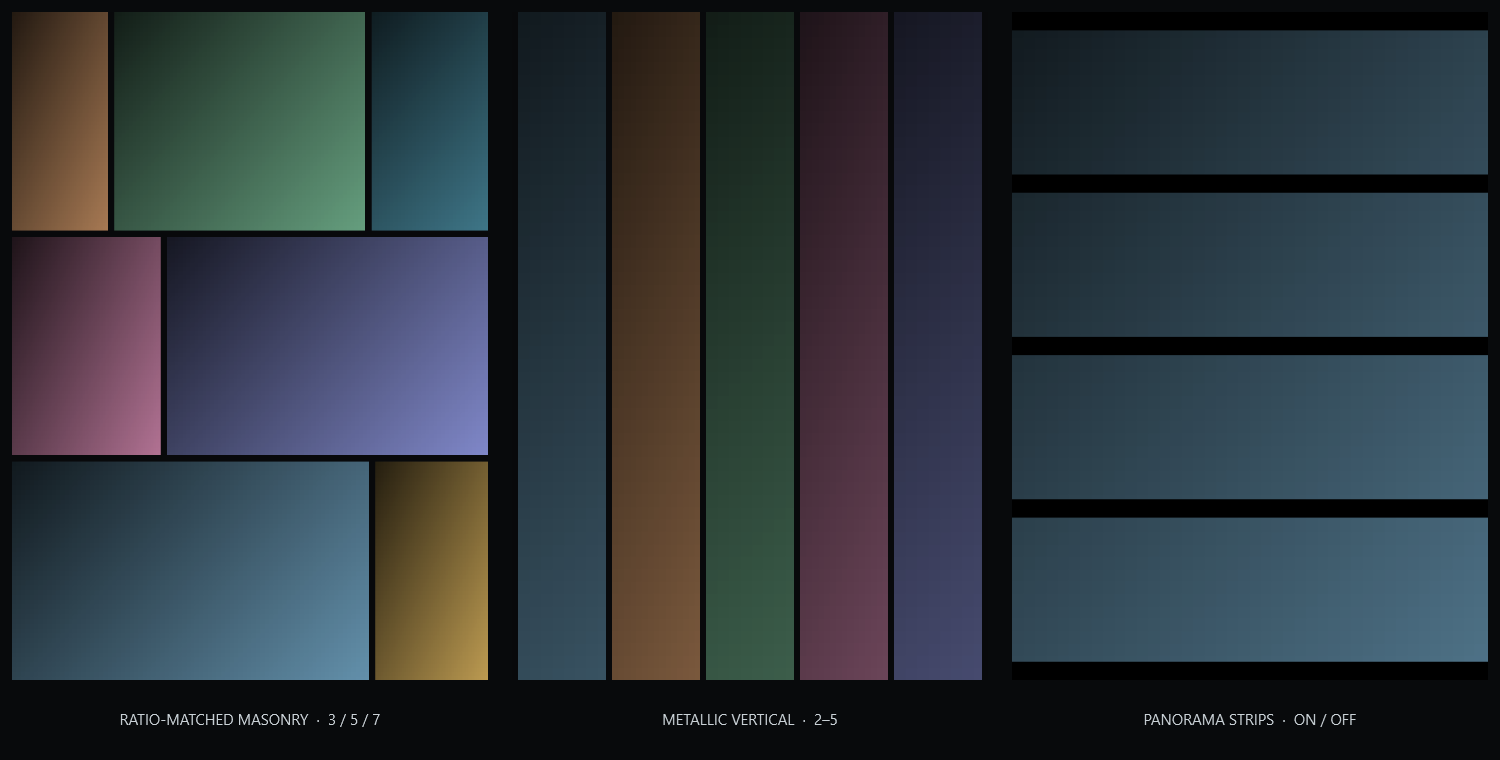
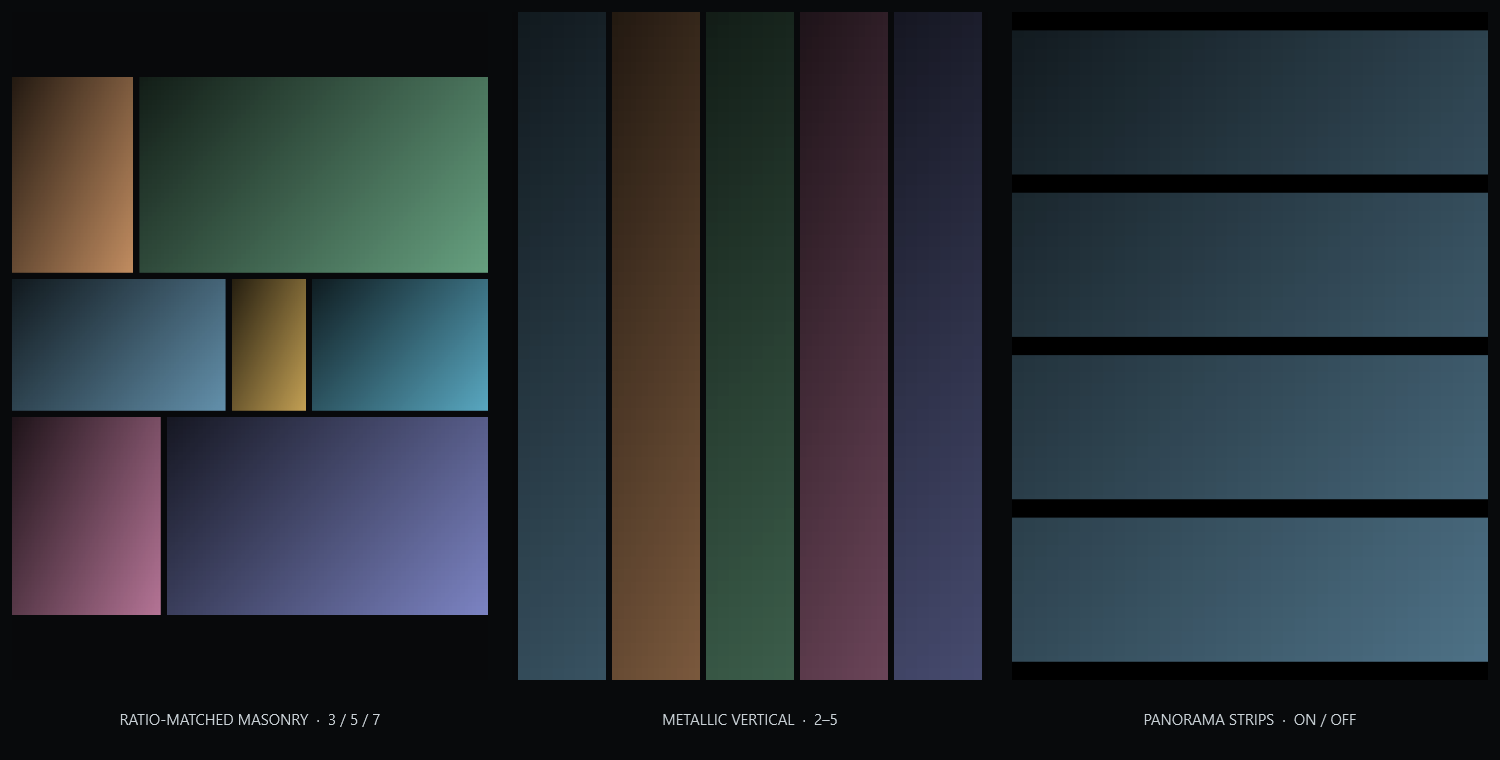
Release DearScene v1.3 beta 1

Changed region(s): [[0.0, 0.0, 0.3373, 0.9079]]

diff --git a/docs/index.html b/docs/index.html
@@ -313,7 +313,7 @@
     .reliability-demo { padding:clamp(24px,4vw,44px); }.pipeline{display:grid;grid-template-columns:1fr 36px 1fr 36px 1fr;align-items:center}.pipe-box{min-height:120px;padding:17px;border:1px solid rgba(255,255,255,.12);border-radius:16px;background:rgba(255,255,255,.025)}.pipe-box b{display:block;margin-bottom:12px;color:rgba(255,255,255,.74);font-size:10px;letter-spacing:.1em}.pipe-box span{display:block;padding:5px 0;color:rgba(255,255,255,.38);font-size:9px}.pipe-box .ready{color:rgba(255,255,255,.78)}.pipe-box .skip{text-decoration:line-through;opacity:.45}.pipe-arrow{height:1px;background:rgba(255,255,255,.22);position:relative}.pipe-arrow::after{content:"";position:absolute;right:0;top:-3px;width:6px;height:6px;border-top:1px solid rgba(255,255,255,.4);border-right:1px solid rgba(255,255,255,.4);transform:rotate(45deg)}.reliability-foot{display:grid;grid-template-columns:repeat(3,1fr);gap:8px;margin-top:12px}.reliability-foot span{min-height:45px;padding:12px;border-radius:12px;background:rgba(255,255,255,.045);color:rgba(255,255,255,.46);font-size:9px;line-height:1.45}
 
     .ui-demo { display:grid; grid-template-columns:1.35fr .65fr; gap:10px; padding:10px; }.ui-main,.ui-side{display:grid;gap:10px}.ui-shot{position:relative;overflow:hidden;border-radius:15px;background:#111}.ui-shot img{height:auto;aspect-ratio:auto;object-fit:contain}.ui-shot small{position:absolute;left:10px;bottom:9px;padding:6px 8px;border-radius:8px;background:rgba(7,9,10,.56);color:rgba(255,255,255,.68);font-size:8px;backdrop-filter:blur(10px)}
-    .presentation-layout-demo { display:grid; grid-template-columns:1.15fr .76fr 1fr; gap:8px; padding:10px; background:#080a0c; }
+    .presentation-layout-demo { display:grid; grid-template-columns:1.08fr 1.08fr .76fr 1fr; gap:8px; padding:10px; background:#080a0c; }
     .layout-showcase { min-width:0; }
     .layout-screen { position:relative; aspect-ratio:16/11; overflow:hidden; padding:6px; border-radius:14px; background:#020304; box-shadow:inset 0 0 0 1px rgba(255,255,255,.09); }
     .layout-showcase small { display:block; min-height:31px; padding:10px 2px 1px; color:rgba(255,255,255,.42); font-size:7px; line-height:1.45; letter-spacing:.08em; text-align:center; }
@@ -322,6 +322,10 @@
     .masonry-tile img { min-width:0; min-height:0; transform:scale(1.02); animation:layout-photo-breathe 14s cubic-bezier(.42,0,.24,1) infinite alternate; }
     .masonry-tile:nth-child(1){grid-column:1/3;grid-row:1/3}.masonry-tile:nth-child(2){grid-column:3/5;grid-row:1}.masonry-tile:nth-child(3){grid-column:3;grid-row:2/4}.masonry-tile:nth-child(4){grid-column:4;grid-row:2/4}.masonry-tile:nth-child(5){grid-column:1;grid-row:3}.masonry-tile:nth-child(6){grid-column:2;grid-row:3}
     .masonry-tile:nth-child(2) img,.masonry-tile:nth-child(5) img{animation-delay:-5s}.masonry-tile:nth-child(3) img,.masonry-tile:nth-child(6) img{animation-delay:-9s}
+    .masonry-natural { position:relative; display:block; }
+    .masonry-natural .masonry-tile { position:absolute; }
+    .masonry-natural .masonry-tile:nth-child(1){left:6px;top:6px;width:45%;height:32%}.masonry-natural .masonry-tile:nth-child(2){right:6px;top:6px;width:45%;height:32%}.masonry-natural .masonry-tile:nth-child(3){left:6px;bottom:6px;width:29%;height:61%}.masonry-natural .masonry-tile:nth-child(4){left:35.5%;bottom:6px;width:29%;height:61%}.masonry-natural .masonry-tile:nth-child(5){right:6px;bottom:6px;width:29%;height:61%}
+    .masonry-natural .masonry-tile img { width:100%;height:100%;object-fit:cover; }
     .vertical-live { display:grid; grid-template-columns:repeat(4,1fr); gap:5px; }
     .vertical-live img { min-width:0; min-height:0; border-radius:5px; object-fit:cover; }
     .vertical-live img:nth-child(1){object-position:47% 50%}.vertical-live img:nth-child(2){object-position:57% 50%}.vertical-live img:nth-child(3){object-position:48% 38%}.vertical-live img:nth-child(4){object-position:62% 50%}
@@ -397,7 +401,7 @@
 <body>
   <header class="topbar glass">
     <div class="brand"><img src="assets/dearscene-icon.png" alt=""><span>DearScene</span></div>
-    <a class="top-cta" href="https://github.com/linohwang001/DearScene-Beta/releases/download/v1.23-beta.1/DearScene-v1.23.exe">v1.23を入手</a>
+    <a class="top-cta" href="https://github.com/linohwang001/DearScene-Beta/releases/download/v1.3-beta.1/DearScene-v1.3.exe">v1.3を入手</a>
   </header>
 
   <section class="opening" aria-labelledby="opening-title">
@@ -602,13 +606,14 @@
             <div class="feature-copy">
               <span class="feature-number">02 · MULTI LAYOUT</span>
               <h3>一枚ずつも、<br>響き合うギャラリーも。</h3>
-              <p>メイソンリーは、縦写真を縦の枠へ、横写真を横の枠へ。3:4、黄金比、16:9を組み合わせ、3・5・7枚の作品がひとつの画面で美しく響き合います。</p>
+              <p>メイソンリーは、縦作品を縦の枠へ、横作品を横の枠へ。3:4、黄金比、16:9でリズムをつくる「貴金属比」と、写真・動画の形をそのまま活かす「元の比率を維持」から選べます。</p>
               <p>短冊は、縦へ2〜5分割。作品ごとに並べることも、パノラマ写真や横長動画を一作品のまま、均等な隙間を挟んだ三つの窓として連続表示することもできます。</p>
-              <p>次のページは画面の外で先に準備。ゆっくり動き出し、なめらかに進み、余韻を残して止まります。<sup class="note-ref"><a href="#release-note-3" aria-label="注記3">3</a></sup></p>
-              <div class="feature-proof"><span>3・5・7枚のメイソンリー</span><span>縦短冊 2〜5分割</span><span>パノラマを縦3面へ</span></div>
+              <p>複数の動画はGPU支援に適した形式を先に準備。次のページが動き始めるまで現在の景色を保ち、ゆっくり動き出し、余韻を残して止まります。<sup class="note-ref"><a href="#release-note-3" aria-label="注記3">3</a></sup></p>
+              <div class="feature-proof"><span>枠と作品の向きを一致</span><span>元の比率を維持</span><span>GPU支援の複数動画</span></div>
             </div>
-            <div class="feature-visual presentation-layout-demo" aria-label="実写サンプルを使ったメイソンリー、縦短冊、パノラマの縦3分割連続表示の例">
-              <div class="layout-showcase"><div class="layout-screen masonry-live"><div class="masonry-tile"><img src="assets/family-travel.jpg" alt="家族旅行の横写真"></div><div class="masonry-tile"><img src="assets/mountain.jpg" alt="湖と山の横写真"></div><div class="masonry-tile"><img src="assets/baby.jpg" alt="家族の縦写真"></div><div class="masonry-tile"><img src="assets/japan-night.jpg" alt="夜景の縦写真"></div><div class="masonry-tile"><img src="assets/beach.jpg" alt="海辺の写真"></div><div class="masonry-tile"><img src="assets/study-works.jpg" alt="作品アーカイブ"></div></div><small>MASONRY · 3 / 5 / 7</small></div>
+            <div class="feature-visual presentation-layout-demo" aria-label="貴金属比と元の比率を維持するメイソンリー、縦短冊、パノラマの縦3分割連続表示の例">
+              <div class="layout-showcase"><div class="layout-screen masonry-live"><div class="masonry-tile"><img src="assets/family-travel.jpg" alt="家族旅行の横写真"></div><div class="masonry-tile"><img src="assets/mountain.jpg" alt="湖と山の横写真"></div><div class="masonry-tile"><img src="assets/baby.jpg" alt="家族の縦写真"></div><div class="masonry-tile"><img src="assets/japan-night.jpg" alt="夜景の縦写真"></div><div class="masonry-tile"><img src="assets/beach.jpg" alt="海辺の写真"></div><div class="masonry-tile"><img src="assets/study-works.jpg" alt="作品アーカイブ"></div></div><small>MASONRY · METALLIC RATIOS</small></div>
+              <div class="layout-showcase"><div class="layout-screen masonry-natural"><div class="masonry-tile"><img src="assets/family-travel.jpg" alt="元の横長比率を保つ旅行写真"></div><div class="masonry-tile"><img src="assets/mountain.jpg" alt="元の横長比率を保つ風景写真"></div><div class="masonry-tile"><img src="assets/baby.jpg" alt="元の縦長比率を保つ家族写真"></div><div class="masonry-tile"><img src="assets/japan-night.jpg" alt="元の縦長比率を保つ夜景写真"></div><div class="masonry-tile"><img src="assets/studio.jpg" alt="元の縦長比率を保つスタジオ写真"></div></div><small>MASONRY · ORIGINAL ASPECT</small></div>
               <div class="layout-showcase"><div class="layout-screen vertical-live"><img src="assets/family-travel.jpg" alt="旅行写真の縦短冊"><img src="assets/japan-night.jpg" alt="夜景写真の縦短冊"><img src="assets/baby.jpg" alt="家族写真の縦短冊"><img src="assets/studio.jpg" alt="スタジオ写真の縦短冊"></div><small>VERTICAL STRIPS · 2–5</small></div>
               <div class="layout-showcase"><div class="layout-screen panorama-live"><div class="panorama-slice"></div><div class="panorama-slice"></div><div class="panorama-slice"></div><span class="panorama-badge">ONE PHOTO</span></div><small>PANORAMA · 3 VERTICAL STRIPS</small></div>
             </div>
@@ -756,13 +761,13 @@
 
     <section class="beta-release" id="beta" aria-labelledby="beta-title">
       <div class="beta-release-inner" data-reveal>
-        <span class="beta-release-kicker">DEARSCENE v1.23 BETA</span>
+        <span class="beta-release-kicker">DEARSCENE v1.3 BETA</span>
         <h2 id="beta-title"><span class="sentence-block">あなたのアーカイブを、</span><span class="sentence-block">もう一度、生きた景色へ。</span></h2>
-        <p><span class="sentence-block">Windows 10／11 x64向けのプレリリースです。</span><span class="sentence-block">試した感想も、うまくいかなかった瞬間も、次のDearSceneをつくる大切な手がかりになります。</span></p>
+        <p><span class="sentence-block">Windows 10／11 x64向けのプレリリースです。</span><span class="sentence-block">v1.3では、作品の向きと比率を活かす二つのメイソンリーと、GPU支援の複数動画再生を追加しました。</span><span class="sentence-block">試した感想も、うまくいかなかった瞬間も、次のDearSceneをつくる大切な手がかりになります。</span></p>
         <div class="beta-actions">
-          <a href="https://github.com/linohwang001/DearScene-Beta/releases/download/v1.23-beta.1/DearScene-v1.23.exe">DearScene v1.23をダウンロード</a>
+          <a href="https://github.com/linohwang001/DearScene-Beta/releases/download/v1.3-beta.1/DearScene-v1.3.exe">DearScene v1.3をダウンロード</a>
           <a href="https://forms.gle/5TT5WFhG5xzA45oW9" target="_blank" rel="noopener noreferrer">意見・不具合を送る</a>
-          <a href="https://github.com/linohwang001/DearScene-Beta/releases/tag/v1.23-beta.1">リリース情報を見る</a>
+          <a href="https://github.com/linohwang001/DearScene-Beta/releases/tag/v1.3-beta.1">リリース情報を見る</a>
         </div>
         <small>ベータ版のため、重要な写真・動画は元の場所に保持したままご利用ください。DearSceneは元ファイルを移動・編集しません。</small>
       </div>
@@ -775,10 +780,10 @@
     <ol>
       <li id="release-note-1">対応形式は、Windowsの標準デコーダー、同梱FFmpeg、RAW内蔵プレビューを組み合わせたものです。ファイルの生成方法や内部形式によっては再生できない場合があります。</li>
       <li id="release-note-2">アプリ内に固定の登録件数上限はありません。実際に扱える件数、検索時間、先読み速度は、PCの性能、メモリ容量、保存先の速度、同時起動数によって変わります。</li>
-      <li id="release-note-3">メイソンリーと短冊表示は、1枚表示より高い読み出し・デコード負荷がかかります。動画のみの分割表示では、必要な全枠が再生を始めてから切り替えます。準備中は現在のページを保ち、黒画面や静止画への置き換えを避けます。</li>
+      <li id="release-note-3">メイソンリーと短冊表示は、1枚表示より高い読み出し・デコード負荷がかかります。v1.3は複数表示用動画をH.264・NV12へ準備し、対応環境ではGPUによる変換・再生支援を利用します。GPU、ドライバー、素材形式によってCPU負荷は変わります。</li>
       <li id="release-note-4">スマート構図は、画像内の顔らしさ、ピント、特徴色から端末内で注目位置を推定します。作品の内容や画質によって結果は異なり、人物を識別・特定する機能ではありません。</li>
       <li id="release-note-5">停止監視と迂回再生は、すべてのPC、グラフィックドライバー、外部ストレージ構成で無停止動作を保証するものではありません。再生中に追加されたファイルは、書き込みの安定を確認してから候補へ加わります。</li>
-      <li>DearScene v1.23はWindows 10／11 x64向けベータ版です。本体はネットワーク通信を行わず、元の写真・動画を変更しません。掲載している画面、仕様、対応形式は今後の更新で変更される場合があります。</li>
+      <li>DearScene v1.3はWindows 10／11 x64向けベータ版です。本体はネットワーク通信を行わず、元の写真・動画を変更しません。掲載している画面、仕様、対応形式は今後の更新で変更される場合があります。</li>
       <li>配布用EXEは現在コード署名されていません。GitHub Releasesから入手し、同じリリースのMANIFESTに記載したSHA-256と一致することを確認してから実行してください。</li>
     </ol>
   </aside>

diff --git a/TEST_REPORT_v1.3.md b/TEST_REPORT_v1.3.md
@@ -1,0 +1,56 @@
+# DearScene v1.3 実機・回帰試験報告
+
+実施日: 2026-08-25 JST
+
+## 試験対象
+
+- メイソンリー枠と動画の縦横方向が一致すること
+- 元動画のアスペクト比を維持したままメイソンリーを構成できること
+- 複数動画の準備がGPU経路を利用し、全画面遷移後も全枠が進行すること
+- 既存の長尺動画監視、短冊表示、ウィンドウ復帰、96万件ライブラリ処理を損なわないこと
+
+## 実機試験A — 元の比率を維持
+
+- 素材: USB接続ドライブ `D:\` 上のH.264動画（縦3本、横2本）
+- 表示: 全画面メイソンリー5分割
+- 写真送り設定: 5秒
+- 更新: 6ページ
+- 終了時ライブ動画: 5/5
+- 縦横不一致: 0
+- 最大アスペクト比誤差: 0.000000
+- 黒画面、迂回、再同期、安全タイマー: すべて0
+- 結果: PASS
+
+結果フォルダー: `TEST_RESULTS_v1.3/fullscreen-video-tiles-20260825-081226`
+
+## 実機試験B — 貴金属比
+
+- 素材、表示、時間、更新数: 試験Aと同一
+- 終了時ライブ動画: 5/5
+- 縦横不一致: 0
+- 黒画面、迂回、再同期、安全タイマー: すべて0
+- 結果: PASS
+
+結果フォルダー: `TEST_RESULTS_v1.3/fullscreen-video-tiles-20260825-081342`
+
+## GPU経路
+
+- GPU: NVIDIA GeForce GTX 1650
+- 実行経路: hardware decode + `h264_nvenc`
+- 複数表示用互換動画: H.264、NV12、960px、15fps
+- GPU経路が使えない場合はMedia Foundation、OpenH264へ段階的にフォールバック
+
+## 回帰試験
+
+- 960,000件ライブラリの増分候補生成: PASS
+- 368,640通りの再生設定契約: PASS
+- 442,368通り×5回の表示更新モデル: PASS
+- メイソンリー／短冊各12ページの交互フルHD遷移: PASS
+- 全画面、最大化、復帰後のドラッグ帯とサイズ変更: PASS
+- 長尺動画の誤停止防止、全動画のライブ進行: PASS
+- 写真の顔・ピント・特徴色を使うスマート構図: PASS
+- 元ファイル非変更、お気に入り・非表示・履歴の永続化: PASS
+
+## 結論
+
+最終ビルドは、2方式のメイソンリーで縦横の誤配置を発生させず、元比率維持モードでは測定誤差なく素材比率を保持しました。Dドライブから5動画を同時再生した全画面試験でも、6回のページ切り替えを黒画面・迂回なしで完了しています。

diff --git a/RELEASE_NOTES_v1.3.md b/RELEASE_NOTES_v1.3.md
@@ -1,0 +1,30 @@
+# DearScene v1.3 Beta
+
+v1.3は、写真や動画が持つ縦横比を活かしながら複数作品を組み立てる、新しいメイソンリー表示とGPU支援を追加した機能更新です。
+
+## 新機能
+
+- 「メイソンリー：貴金属比」を追加。3:4、黄金比、16:9を基準に、縦横のリズムを組み立てます
+- 「メイソンリー：元の比率を維持」を追加。写真・動画の元のアスペクト比を変えずに、画面内へ自動配置します
+- 最終的な枠の向きを基準に素材を割り当て、縦作品は縦枠、横作品は横枠へ優先配置します
+- 5作品以上では3列／3行を使い、元比率を維持しながら画面の余白を抑えます
+- 複数表示用動画は、対応環境でGPUデコードと選択GPUによるH.264変換を優先します
+
+## 安定性と互換性
+
+- 回転情報を含む動画は、FFmpegで確認した表示寸法を優先し、縦横の誤判定を防ぎます
+- GPU変換が利用できない場合も、Media Foundation、OpenH264の順にH.264互換動画を準備します
+- 次ページの動画が実際に動き始めるまで現在ページを保持し、全画面でも停止や黒画面を避けます
+- 長尺動画を停止と誤認せず、複数表示では「写真送り」で設定した時間ごとにページを切り替えます
+- 元の写真・動画は移動、編集、削除しません。お気に入り、非表示、再生履歴はDearScene側の索引へ保存します
+
+## 実機検証
+
+- USB接続ドライブ `D:\` 上の縦動画3本・横動画2本を同時再生
+- 全画面、5分割、5秒間隔で各方式6ページを更新
+- 「元の比率を維持」: 5/5動画が全ページで進行、縦横不一致0、比率誤差0.000000
+- 「貴金属比」: 5/5動画が全ページで進行、縦横不一致0
+- 黒画面、次候補への迂回、再生再同期、安全タイマー作動はいずれも0件
+- NVIDIA GeForce GTX 1650環境で、ハードウェアデコードとNVENCによる準備経路を確認
+
+本体はネットワーク通信を行わず、管理者権限を要求しません。

diff --git a/RELEASE_CHECKLIST.md b/RELEASE_CHECKLIST.md
@@ -1,0 +1,26 @@
+# DearScene リリース標準
+
+DearSceneの各リリースは、次の成果物と確認を一つの作業単位として扱います。
+
+## 必須成果物
+
+1. バージョン番号を付けた単体実行ファイル（`.exe`）
+2. 現行製品の価値と実際の機能を示す、公開用紹介ページ
+3. 変更点、互換性、既知事項、実機検証をまとめたリリースノート
+4. `.exe` と紹介ページのSHA-256を記録したマニフェスト
+5. 必要に応じて詳細な実機・回帰試験報告
+
+## 品質条件
+
+- 紹介ページは現行版と同等以上の写真、利用イメージ、文章、レスポンシブ品質を維持する
+- 廃止機能や開発都合ではなく、購入・試用前のユーザーが知るべき価値、動作環境、安心材料を優先する
+- デスクトップとスマートフォン幅で、意味の途中の改行、文字切れ、重なり、実作業パスの露出がないことを確認する
+- リリース対象と同一の最終バイナリで自動試験と対象機能の実機試験を行う
+- GitHub Pages、Release本文、README、ダウンロード先、バージョン表記を同時に更新する
+
+## GitHub公開
+
+- `.exe`、スタンドアロン紹介ページ、リリースノート、マニフェストを同じGitHub Releaseへ添付する
+- ベータ版はPre-releaseとして公開する
+- 公開後にGitHub Pagesの表示、Releaseの添付ファイル、公開ファイルのSHA-256を再確認する
+- フィードバックフォームと利用条件、セキュリティ説明へのリンクを維持する
